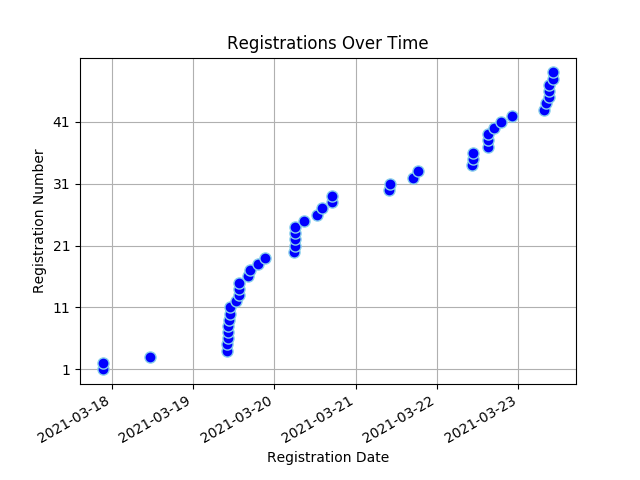
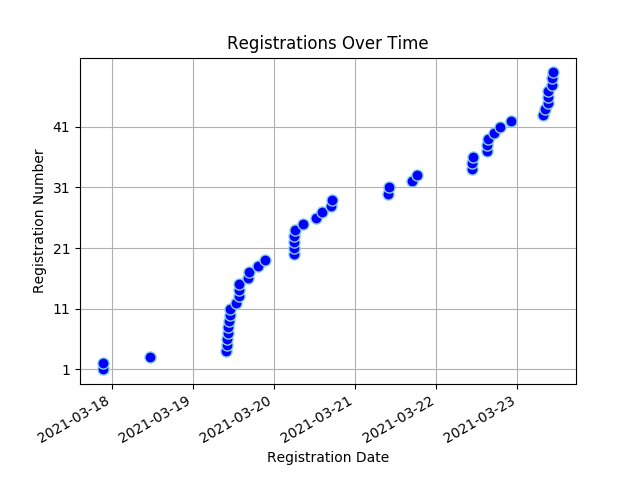
Registree stats backup on Tue 23 Mar 2021 11:06:49 SAST

diff --git a/content/registrees/_index.md b/content/registrees/_index.md
@@ -3,9 +3,9 @@ title: Registration Stats
 draft: false
 ---
 
-<ul><li><strong>Number of Registrees</strong>: 49</li>
+<ul><li><strong>Number of Registrees</strong>: 50</li>
 
-<li><strong>Number of Clubs</strong>: 27</li>
+<li><strong>Number of Clubs</strong>: 28</li>
 
 <li><strong>Club With Most Attendees</strong>: Kuilsriver (5 registrees)</li>
 </ul><h2>Registrees</h2>
@@ -33,6 +33,6 @@ draft: false
         </tr>
     </thead>
     <tbody>
-<tr><td>Valencia Beukes-Williams</td><td>Kuilsriver</td><td>410W</td></tr><tr><td>JOSE BRAGA BORGES</td><td>Malmesbury</td><td>410W</td></tr><tr><td>Herman Cadman</td><td>Stellenbosch</td><td>410W</td></tr><tr><td>Sue Charles</td><td>Tokai</td><td>410W</td></tr><tr><td>Esme Cornelius</td><td>Kuilsriver</td><td>410W</td></tr><tr><td>Sharon Cottle</td><td>Groote Schuur</td><td>410E</td></tr><tr><td>Peter Daniel</td><td>Gordons Bay</td><td>410W</td></tr><tr><td>Norma Daniel</td><td>Gordons Bay</td><td>410W</td></tr><tr><td>Engela de Kock</td><td>Swellendam</td><td>410W</td></tr><tr><td>Francois de Kock</td><td>Swellendam</td><td>410W</td></tr><tr><td>Desiree du Toit</td><td>Ramsgate</td><td>410E</td></tr><tr><td>Charles Flanagan</td><td>Tokai</td><td>410W</td></tr><tr><td>Jules Flanagan</td><td>Tokai</td><td>410W</td></tr><tr><td>Viv Grater</td><td>Sedgefield</td><td>410W</td></tr><tr><td>Dorothy Hess</td><td>Kuilsriver</td><td>410W</td></tr><tr><td>Wendy Higgins</td><td>Wilro Park</td><td>410E</td></tr><tr><td>Jacqui Hocking</td><td>Midrand</td><td>410E</td></tr><tr><td>Cliff Hocking</td><td>Midrand</td><td>410E</td></tr><tr><td>Liz Houston</td><td>Table View</td><td>410W</td></tr><tr><td>John Houston</td><td>Table View</td><td>410W</td></tr><tr><td>WOLSLEY Jacobson</td><td>Cape Town</td><td>410W</td></tr><tr><td>Zwaai Kruger</td><td>Sedgefield</td><td>410W</td></tr><tr><td>Bevil Lakay</td><td>Mitchells Plain</td><td>410W</td></tr><tr><td>Polquer Lang</td><td>Gordons Bay</td><td>410W</td></tr><tr><td>Sharon Mangwende</td><td>Cape Town</td><td>410E</td></tr><tr><td>Beaulieu Mare</td><td>Benoni Lakes</td><td>410E</td></tr><tr><td>Mark Meltzer</td><td>The Wilds</td><td>410E</td></tr><tr><td>Denis Meyer</td><td>Port Shepstone</td><td>410E</td></tr><tr><td>BERNICE MILLS</td><td>Centurion</td><td>410E</td></tr><tr><td>Patrick Mills</td><td>Centurion</td><td>410E</td></tr><tr><td>Pieter Nel</td><td>George</td><td>410W</td></tr><tr><td>Tillie Nel</td><td>Eden</td><td>410W</td></tr><tr><td>BRIAN PORTEOUS</td><td>Hibberdene</td><td>410E</td></tr><tr><td>Ingrid Russell</td><td>Fish Hoek</td><td>410W</td></tr><tr><td>Sue Smit</td><td>Centurion</td><td>410E</td></tr><tr><td>Jeff Smith</td><td>Port Shepstone</td><td>410E</td></tr><tr><td>LYN SNYMAN</td><td>Deep South</td><td>410W</td></tr><tr><td>RORY stier</td><td>Deep South</td><td>410W</td></tr><tr><td>Patrick Strauss</td><td>Kuilsriver</td><td>410W</td></tr><tr><td>HILARY LISE VAN BREDA</td><td>Cape Town</td><td>410W</td></tr><tr><td>Marina Van de Merwe</td><td>Malmesbury</td><td>410W</td></tr><tr><td>Jeannie van Wulven</td><td>Tygerberg Hills</td><td>410W</td></tr><tr><td>Alan van Wulven</td><td>Tygerberg Hills</td><td>410W</td></tr><tr><td>Deon van Wulven</td><td>Tygerberg Hills</td><td>410W</td></tr><tr><td>Kim van Wyk</td><td>North Durban</td><td>410E</td></tr><tr><td>Edith Van Wyk-Nelson</td><td>Kuilsriver</td><td>410W</td></tr><tr><td>Brian von der Decken</td><td>King William's Town</td><td>410E</td></tr><tr><td>Rochelle Vorster</td><td>Sedgefield</td><td>410W</td></tr><tr><td>Allan Watson</td><td>Sea Point</td><td>410W</td></tr>
+<tr><td>Valencia Beukes-Williams</td><td>Kuilsriver</td><td>410W</td></tr><tr><td>JOSE BRAGA BORGES</td><td>Malmesbury</td><td>410W</td></tr><tr><td>Herman Cadman</td><td>Stellenbosch</td><td>410W</td></tr><tr><td>Sue Charles</td><td>Tokai</td><td>410W</td></tr><tr><td>Perry Chetty</td><td>East Coast</td><td>410E</td></tr><tr><td>Esme Cornelius</td><td>Kuilsriver</td><td>410W</td></tr><tr><td>Sharon Cottle</td><td>Groote Schuur</td><td>410E</td></tr><tr><td>Peter Daniel</td><td>Gordons Bay</td><td>410W</td></tr><tr><td>Norma Daniel</td><td>Gordons Bay</td><td>410W</td></tr><tr><td>Engela de Kock</td><td>Swellendam</td><td>410W</td></tr><tr><td>Francois de Kock</td><td>Swellendam</td><td>410W</td></tr><tr><td>Desiree du Toit</td><td>Ramsgate</td><td>410E</td></tr><tr><td>Charles Flanagan</td><td>Tokai</td><td>410W</td></tr><tr><td>Jules Flanagan</td><td>Tokai</td><td>410W</td></tr><tr><td>Viv Grater</td><td>Sedgefield</td><td>410W</td></tr><tr><td>Dorothy Hess</td><td>Kuilsriver</td><td>410W</td></tr><tr><td>Wendy Higgins</td><td>Wilro Park</td><td>410E</td></tr><tr><td>Jacqui Hocking</td><td>Midrand</td><td>410E</td></tr><tr><td>Cliff Hocking</td><td>Midrand</td><td>410E</td></tr><tr><td>Liz Houston</td><td>Table View</td><td>410W</td></tr><tr><td>John Houston</td><td>Table View</td><td>410W</td></tr><tr><td>WOLSLEY Jacobson</td><td>Cape Town</td><td>410W</td></tr><tr><td>Zwaai Kruger</td><td>Sedgefield</td><td>410W</td></tr><tr><td>Bevil Lakay</td><td>Mitchells Plain</td><td>410W</td></tr><tr><td>Polquer Lang</td><td>Gordons Bay</td><td>410W</td></tr><tr><td>Sharon Mangwende</td><td>Cape Town</td><td>410E</td></tr><tr><td>Beaulieu Mare</td><td>Benoni Lakes</td><td>410E</td></tr><tr><td>Mark Meltzer</td><td>The Wilds</td><td>410E</td></tr><tr><td>Denis Meyer</td><td>Port Shepstone</td><td>410E</td></tr><tr><td>BERNICE MILLS</td><td>Centurion</td><td>410E</td></tr><tr><td>Patrick Mills</td><td>Centurion</td><td>410E</td></tr><tr><td>Pieter Nel</td><td>George</td><td>410W</td></tr><tr><td>Tillie Nel</td><td>Eden</td><td>410W</td></tr><tr><td>BRIAN PORTEOUS</td><td>Hibberdene</td><td>410E</td></tr><tr><td>Ingrid Russell</td><td>Fish Hoek</td><td>410W</td></tr><tr><td>Sue Smit</td><td>Centurion</td><td>410E</td></tr><tr><td>Jeff Smith</td><td>Port Shepstone</td><td>410E</td></tr><tr><td>LYN SNYMAN</td><td>Deep South</td><td>410W</td></tr><tr><td>RORY stier</td><td>Deep South</td><td>410W</td></tr><tr><td>Patrick Strauss</td><td>Kuilsriver</td><td>410W</td></tr><tr><td>HILARY LISE VAN BREDA</td><td>Cape Town</td><td>410W</td></tr><tr><td>Marina Van de Merwe</td><td>Malmesbury</td><td>410W</td></tr><tr><td>Jeannie van Wulven</td><td>Tygerberg Hills</td><td>410W</td></tr><tr><td>Alan van Wulven</td><td>Tygerberg Hills</td><td>410W</td></tr><tr><td>Deon van Wulven</td><td>Tygerberg Hills</td><td>410W</td></tr><tr><td>Kim van Wyk</td><td>North Durban</td><td>410E</td></tr><tr><td>Edith Van Wyk-Nelson</td><td>Kuilsriver</td><td>410W</td></tr><tr><td>Brian von der Decken</td><td>King William's Town</td><td>410E</td></tr><tr><td>Rochelle Vorster</td><td>Sedgefield</td><td>410W</td></tr><tr><td>Allan Watson</td><td>Sea Point</td><td>410W</td></tr>
 </tbody>
 </table>

diff --git a/content/full_stats/_index.md b/content/full_stats/_index.md
@@ -16,16 +16,16 @@ draft: false
 </head>
 <body>
 <h1 style="color: #000000;">Full Registration Stats</h1>
-<ul><li><strong>Number of Registrees</strong>: 49</li>
-<li><strong>Number of Clubs</strong>: 27</li>
+<ul><li><strong>Number of Registrees</strong>: 50</li>
+<li><strong>Number of Clubs</strong>: 28</li>
 <li><strong>Club With Most Attendees</strong>: Kuilsriver (5 registrees)</li>
 
 <li><strong>Number of District 410W Convention Attendees</strong>: 33</li>
 <li><strong>Number of District 410W Convention Voters</strong>: 19</li>
-<li><strong>Number of District 410E Convention Attendees</strong>: 16</li>
+<li><strong>Number of District 410E Convention Attendees</strong>: 17</li>
 <li><strong>Number of District 410E Convention Voters</strong>: 11</li>
 
-<li><strong>Number of MD410 Convention Attendees</strong>: 46</li>
+<li><strong>Number of MD410 Convention Attendees</strong>: 47</li>
 <li><strong>Number of MD410 Convention Voters</strong>: 28</li>
 
 </ul>
@@ -99,6 +99,17 @@ draft: false
 <td>Tokai</td>
 <td>410W</td>
 <td style="background-color: lightgreen">Yes</td>
+<td style="background-color: lightgreen">Yes</td>
+<td style="background-color: lightgreen">Yes</td>
+<td>No</td>
+</tr>
+
+    
+<td>51</td>
+<td>Perry Chetty</td>
+<td>East Coast</td>
+<td>410E</td>
+<td>No</td>
 <td style="background-color: lightgreen">Yes</td>
 <td style="background-color: lightgreen">Yes</td>
 <td>No</td>
